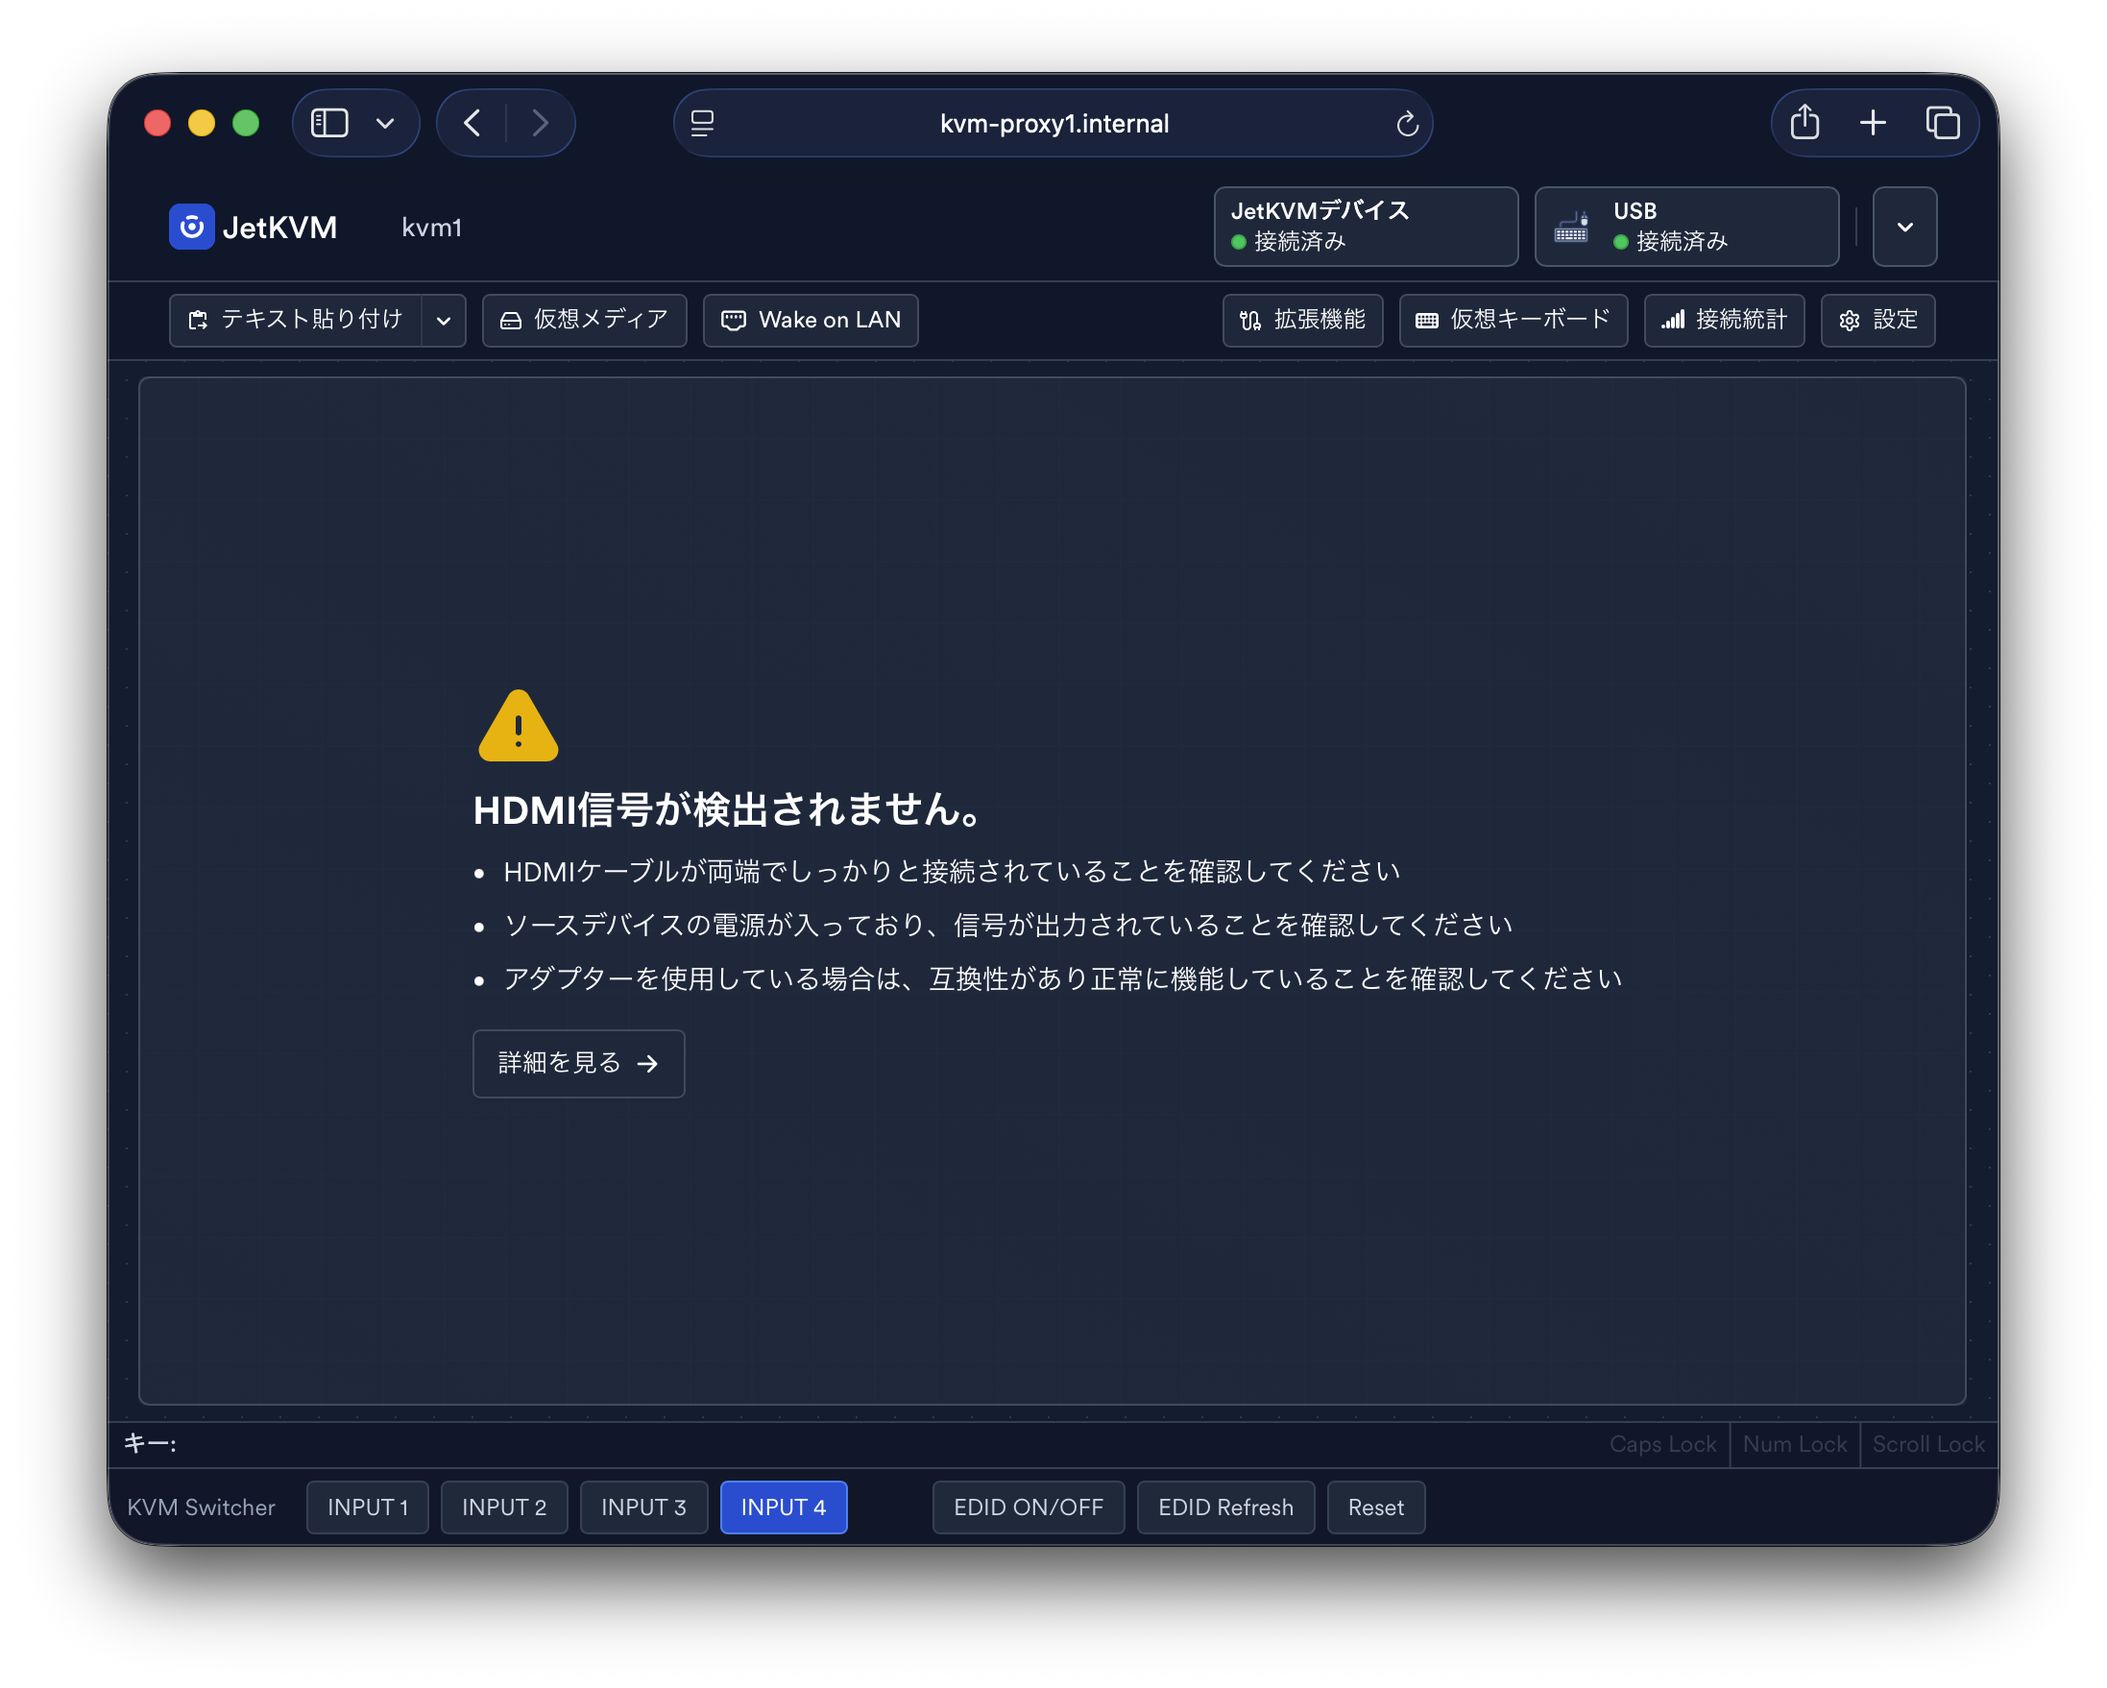
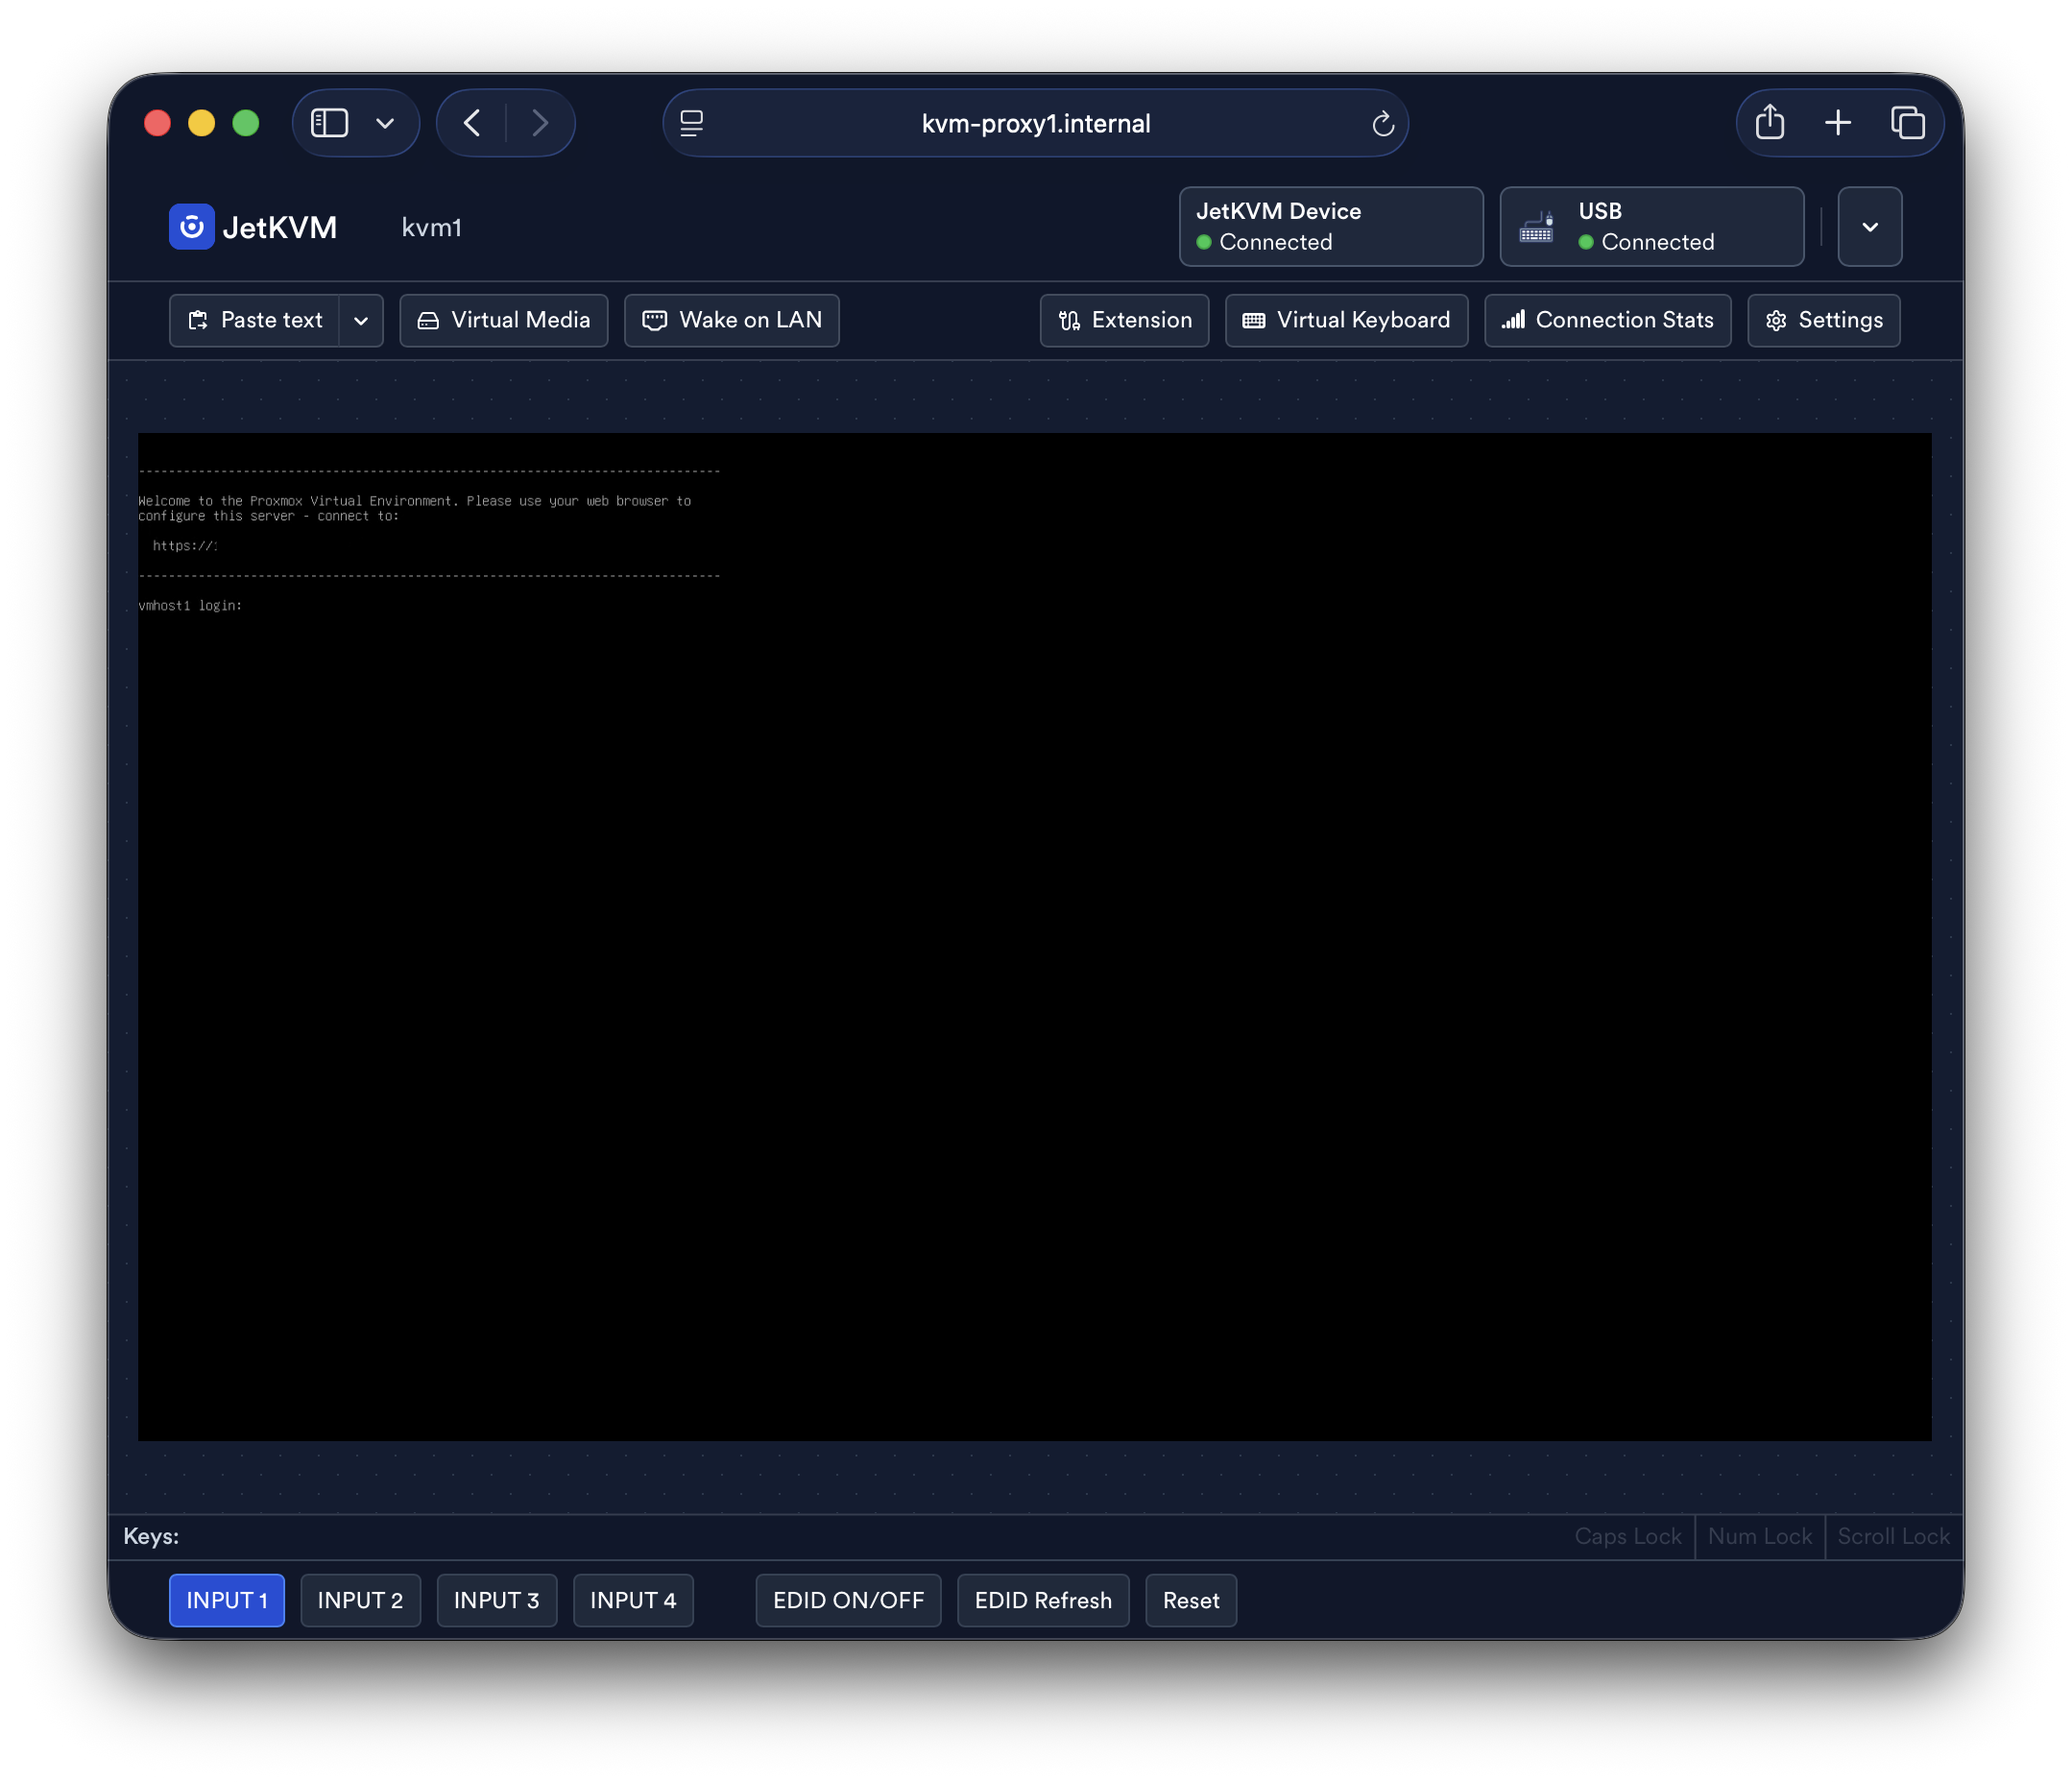
Update style

diff --git a/nginx/static/kvm-inject.js b/nginx/static/kvm-inject.js
@@ -4,29 +4,32 @@
   // -----------------------------------------
   const THEMES = {
     light: {
-      bar:         "display:flex;gap:6px;align-items:center;padding:4px 0;background:rgba(255,255,255,0.8);border-top:1px solid #BCBFC4;",
-      title:       "padding:4px 10px;color:#2d2d2d;font-size:12px;",
-      btnBase:     "padding:4px 10px;border-radius:4px;border:1px solid #BCBFC4;background:#fff;color:#2d2d2d;font-size:12px;cursor:pointer;transition:background 0.15s,color 0.15s,border-color 0.15s;",
+      bar:         "display:flex;flex-wrap:wrap;gap:0.5rem 0;align-items:center;padding:0.4rem 1rem;background:rgba(255,255,255,0.8);border-top:1px solid #BCBFC4;min-width:0;width:100%;box-sizing:border-box;",
+      group:       "display:flex;flex-wrap:wrap;justify-content:space-between;align-items:center;gap:0.5rem;padding:0 1rem;min-width:0;flex-shrink:1;",
+      title:       "padding:0.25rem 0.5rem; color:#000; font-size:12px; font-family:Circular,sans-serif; font-weight:600;",
+      divider:     "width:0px;height:1.25rem;background:#BCBFC4;margin:0;flex-shrink:0;",
+      btnBase:     "padding:0.25rem 0.5rem; border-radius:4px; border:1px solid #BCBFC4; background:#fff; color:#000; font-size:12px;font-weight:500;cursor:pointer;transition:background 0.15s,color 0.15s,border-color 0.15s;white-space:nowrap;flex-shrink:0;",
       btnHover:    "#F3F7FE",
       btnActive:   { bg: "#1a56db", color: "#fff",   border: "#1a56db" },
-      btnInactive: { bg: "#fff",    color: "#2d2d2d", border: "#BCBFC4" },
+      btnInactive: { bg: "#fff",    color: "#000",    border: "#BCBFC4" },
       btnPress:    "#EBF2FD",
       btnError:    { bg: "#fee2e2", border: "#f87171" },
     },
     dark: {
-      bar:         "display:flex;gap:6px;align-items:center;padding:4px 0;background:rgba(15,23,42,0.85);border-top:1px solid #334155;",
-      title:       "padding:4px 10px;color:#94a3b8;font-size:12px;",
-      btnBase:     "padding:4px 10px;border-radius:4px;border:1px solid #334155;background:#1e293b;color:#cbd5e1;font-size:12px;cursor:pointer;transition:background 0.15s,color 0.15s,border-color 0.15s;",
+      bar:         "display:flex;flex-wrap:wrap;gap:0.5rem 0;align-items:center;padding:0.4rem 1rem;background:rgba(15,23,42,0.85);border-top:1px solid #334155;min-width:0;width:100%;box-sizing:border-box;",
+      group:       "display:flex;flex-wrap:wrap;justify-content:space-between;align-items:center;gap:0.5rem;padding:0 1rem;min-width:0;flex-shrink:1;",
+      title:       "padding:0.25rem 0.5rem; color:#fff; font-size:12px; font-family:Circular,sans-serif; font-weight:600;",
+      divider:     "width:0px;height:1.25rem;background:#334155;margin:0;flex-shrink:0;",
+      btnBase:     "padding:0.25rem 0.5rem; border-radius:4px; border:1px solid #334155; background:#1e293b; color:#fff; font-size:12px;font-weight:500;cursor:pointer;transition:background 0.15s,color 0.15s,border-color 0.15s;white-space:nowrap;flex-shrink:0;",
       btnHover:    "#273549",
       btnActive:   { bg: "#1d4ed8", color: "#fff",   border: "#3b82f6" },
-      btnInactive: { bg: "#1e293b", color: "#cbd5e1", border: "#334155" },
+      btnInactive: { bg: "#1e293b", color: "#fff",    border: "#334155" },
       btnPress:    "#1e3a5f",
       btnError:    { bg: "#450a0a", border: "#dc2626" },
     },
   };
 
   let activeChannel = null;
-  let currentTheme  = "light";
   const inputButtons = {};
   const allButtons   = [];  // All buttons (INPUT + EDID)
 
@@ -54,6 +57,14 @@
     const titleEl = document.getElementById("kvm-switch-title");
     if (titleEl) titleEl.style.cssText = t.title;
 
+    document.querySelectorAll(".kvm-group").forEach(g => {
+      g.style.cssText = t.group;
+    });
+
+    document.querySelectorAll(".kvm-divider").forEach(d => {
+      d.style.cssText = t.divider;
+    });
+
     allButtons.forEach(btn => {
       btn.style.cssText = t.btnBase;
     });
@@ -74,11 +85,11 @@
       if (!btn) continue;
       const isActive = i === (themeChangeOnly ? activeChannel : ch);
       const s = isActive ? t.btnActive : t.btnInactive;
-      btn.style.background   = s.bg;
-      btn.style.color        = s.color;
-      btn.style.borderColor  = s.border;
-      btn.dataset.active = isActive ? "1" : "";
-      btn.onmouseleave = isActive ? () => {} : () => { btn.style.background = t.btnInactive.bg; };
+      btn.style.background  = s.bg;
+      btn.style.color       = s.color;
+      btn.style.borderColor = s.border;
+      btn.dataset.active    = isActive ? "1" : "";
+      btn.onmouseleave      = isActive ? () => {} : () => { btn.style.background = getTheme().btnInactive.bg; };
     }
   }
 
@@ -88,19 +99,39 @@
   function makeButton(label, onClick) {
     const t   = getTheme();
     const btn = document.createElement("button");
-    btn.textContent  = label;
+    btn.textContent   = label;
     btn.style.cssText = t.btnBase;
-    btn.onmouseenter = () => {
-      if (!btn.dataset.active)
-        btn.style.background = getTheme().btnHover;
+    btn.onmouseenter  = () => {
+      if (!btn.dataset.active) btn.style.background = getTheme().btnHover;
     };
-    btn.onmouseleave = () => {
-      if (!btn.dataset.active)
-        btn.style.background = getTheme().btnInactive.bg;
+    btn.onmouseleave  = () => {
+      if (!btn.dataset.active) btn.style.background = getTheme().btnInactive.bg;
     };
     btn.onclick = onClick;
     allButtons.push(btn);
     return btn;
+  }
+
+  // -----------------------------------------
+  // Build a flex group wrapper
+  // -----------------------------------------
+  function makeGroup() {
+    const t = getTheme();
+    const g = document.createElement("div");
+    g.className    = "kvm-group";
+    g.style.cssText = t.group;
+    return g;
+  }
+
+  // -----------------------------------------
+  // Build a vertical divider
+  // -----------------------------------------
+  function makeDivider() {
+    const t = getTheme();
+    const d = document.createElement("div");
+    d.className    = "kvm-divider";
+    d.style.cssText = t.divider;
+    return d;
   }
 
   // -----------------------------------------
@@ -113,17 +144,20 @@
 
     const t   = getTheme();
     const bar = document.createElement("div");
-    bar.id = "kvm-switch-bar";
+    bar.id            = "kvm-switch-bar";
     bar.style.cssText = t.bar;
 
     // Title label
-    const title = document.createElement("div");
-    title.id          = "kvm-switch-title";
-    title.textContent = "KVM Switcher";
-    title.style.cssText = t.title;
-    bar.appendChild(title);
+    //const title = document.createElement("div");
+    //title.id            = "kvm-switch-title";
+    //title.textContent   = "KVM Switcher";
+    //title.style.cssText = t.title;
+    //bar.appendChild(title);
 
-    // INPUT 1-4 channel buttons
+    bar.appendChild(makeDivider());
+
+    // INPUT 1-4 channel buttons (group)
+    const inputGroup = makeGroup();
     [1, 2, 3, 4].forEach(ch => {
       const btn = makeButton(`INPUT ${ch}`, async () => {
         try {
@@ -146,15 +180,14 @@
         }
       });
       inputButtons[ch] = btn;
-      bar.appendChild(btn);
+      inputGroup.appendChild(btn);
     });
+    bar.appendChild(inputGroup);
 
-    // Spacer
-    const space = document.createElement("div");
-    space.style.padding = "16px";
-    bar.appendChild(space);
+    bar.appendChild(makeDivider());
 
-    // EDID / Reset buttons
+    // EDID / Reset buttons (group)
+    const edidGroup = makeGroup();
     [
       { label: "EDID ON/OFF",  path: "/api/edid/toggle",  resetToInput1: false },
       { label: "EDID Refresh", path: "/api/edid/refresh", resetToInput1: true  },
@@ -186,8 +219,9 @@
           }, 500);
         }
       });
-      bar.appendChild(btn);
+      edidGroup.appendChild(btn);
     });
+    bar.appendChild(edidGroup);
 
     toolbar.appendChild(bar);
 
